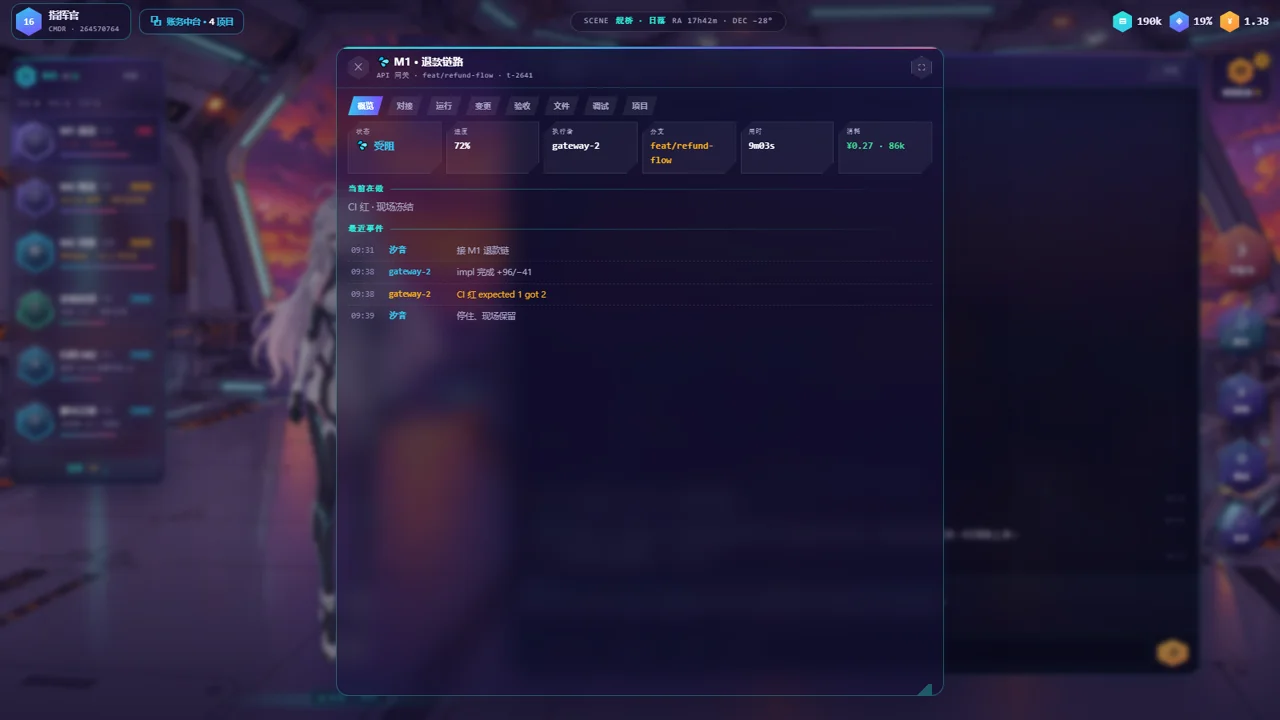
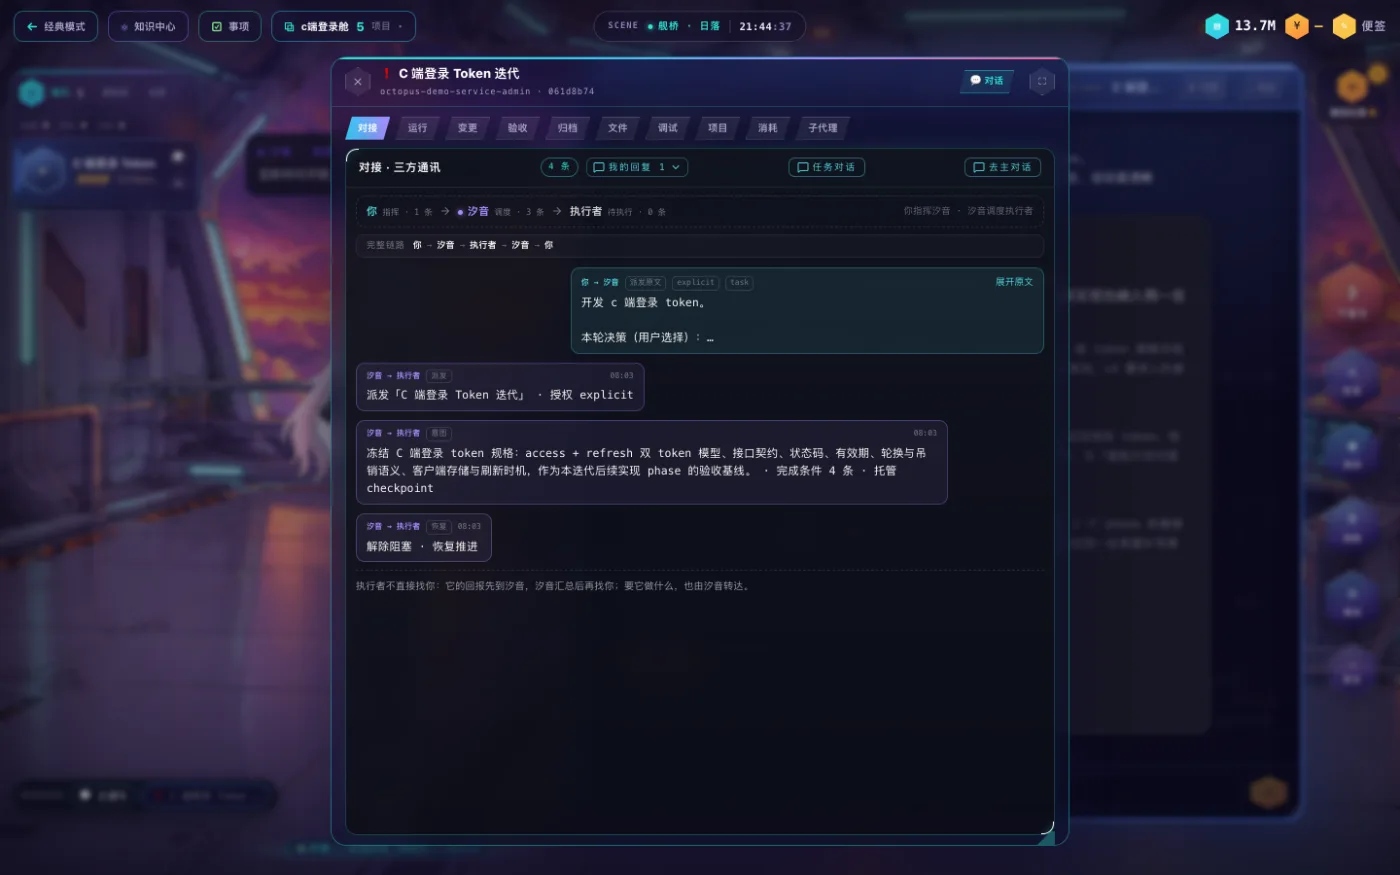
docs(readme): 作战舱四张截图换新 —— classic / 指挥舱 / 详情（对接）/ 提问卡

diff --git a/README.md b/README.md
@@ -76,10 +76,10 @@ task-author 分身和你谈规格
 深链直接打开归属窗口。
 
 **作战舱（classic）** —— 一目录一舱。左栏是**编队**（这舱里所有作战），中间是主对话，
-右栏是**要我处理**。点一条作战先看**详情**：概览 → 对接 → 运行 → 变更 → 验收 → 文件 →
-调试 → 项目。
+右栏是**要我处理**。点一条作战先看**详情**：对接 → 运行 → 变更 → 验收 → 归档 → 文件 →
+调试 → 项目 → 消耗 → 子代理。
 
-<img src="docs/imgs/task-detail.webp" alt="作战详情：状态、执行等、分支与最近事件" />
+<img src="docs/imgs/task-detail.webp" alt="作战详情 · 对接：你 → 汐音 → 执行者 的三方通讯" />
 
 **指挥舱（全域）** —— 不绑单一目录的全局视图：所有舱的作战汇总成一支编队，同一套待办与
 对话。适合一屏看全、集中拍板。

diff --git a/README_EN.md b/README_EN.md
@@ -80,9 +80,10 @@ and minimized state persist; deep links open the owning window.
 
 **Cabin (classic)** — one directory per cabin. The left rail is the *fleet* (every operation in this
 cabin), the middle is the main chat, the right is *needs handling*. Open an operation to see its
-detail: Overview → Liaison → Runs → Changes → Acceptance → Files → Debug → Projects.
+detail: Liaison → Runs → Changes → Acceptance → Archive → Files → Debug → Projects → Usage →
+Sub-agents.
 
-<img src="docs/imgs/task-detail.webp" alt="Operation detail: status, executor, branch, events" />
+<img src="docs/imgs/task-detail.webp" alt="Operation detail · Liaison: you → Xiyin → executor, three-way comms" />
 
 **Cockpit (global)** — a directory-free view: every cabin's operations in one fleet, with the same
 inbox and conversation. Built for seeing everything and deciding in one place.
